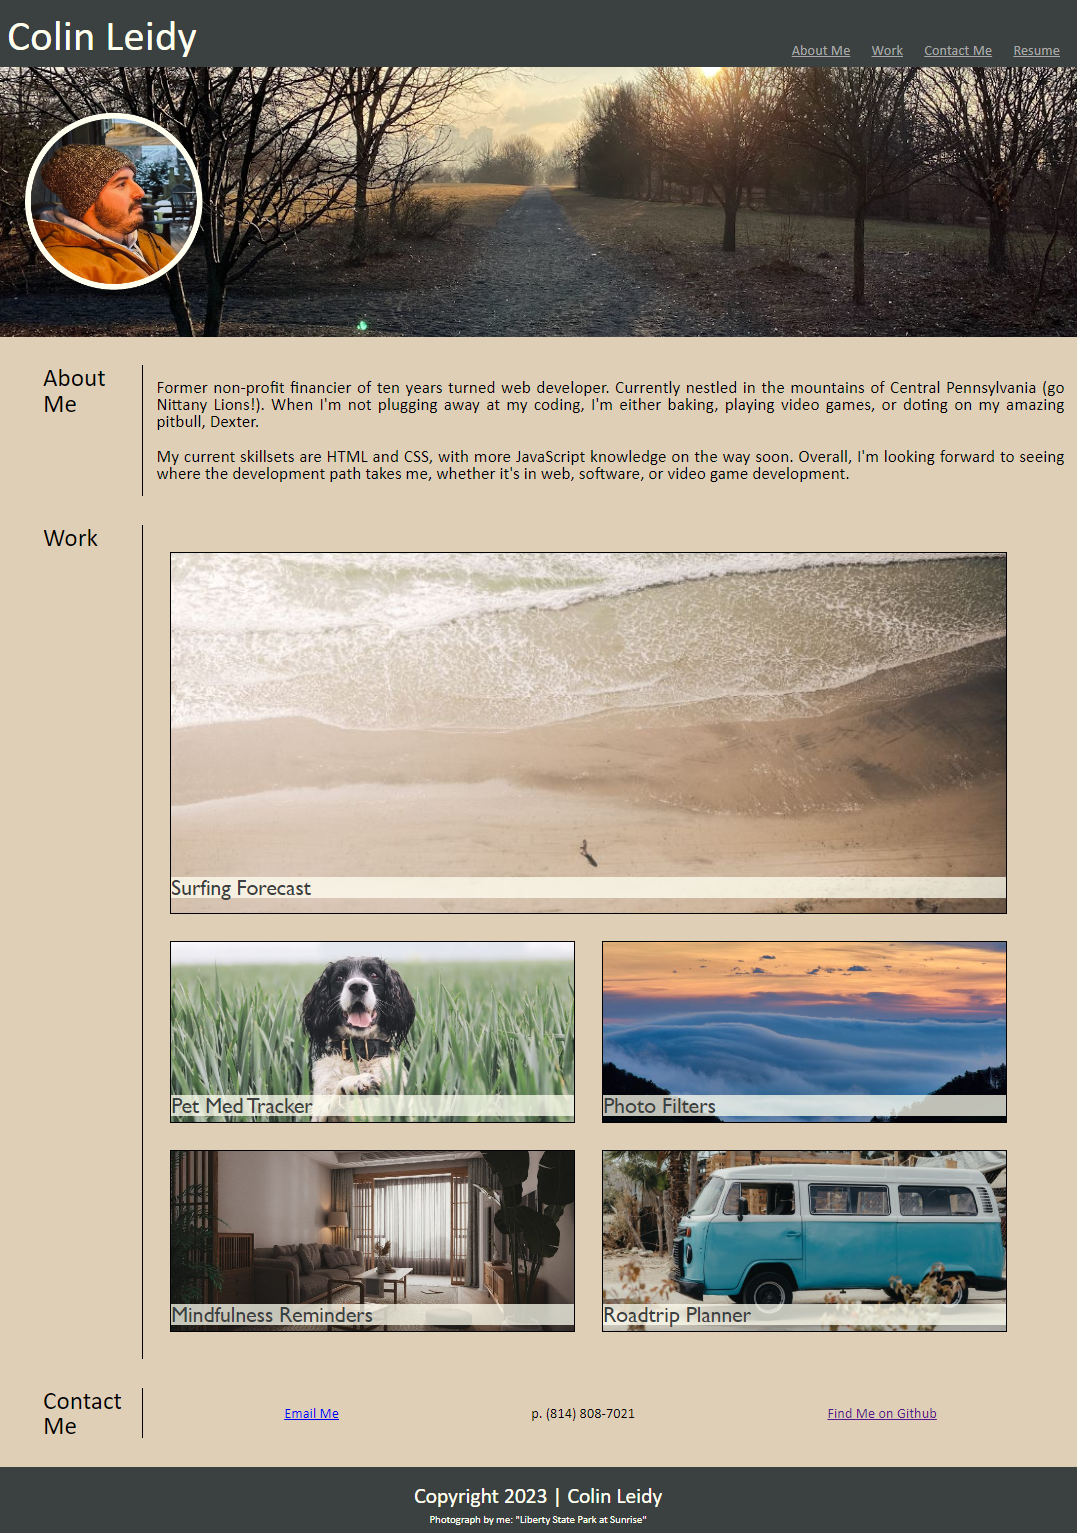
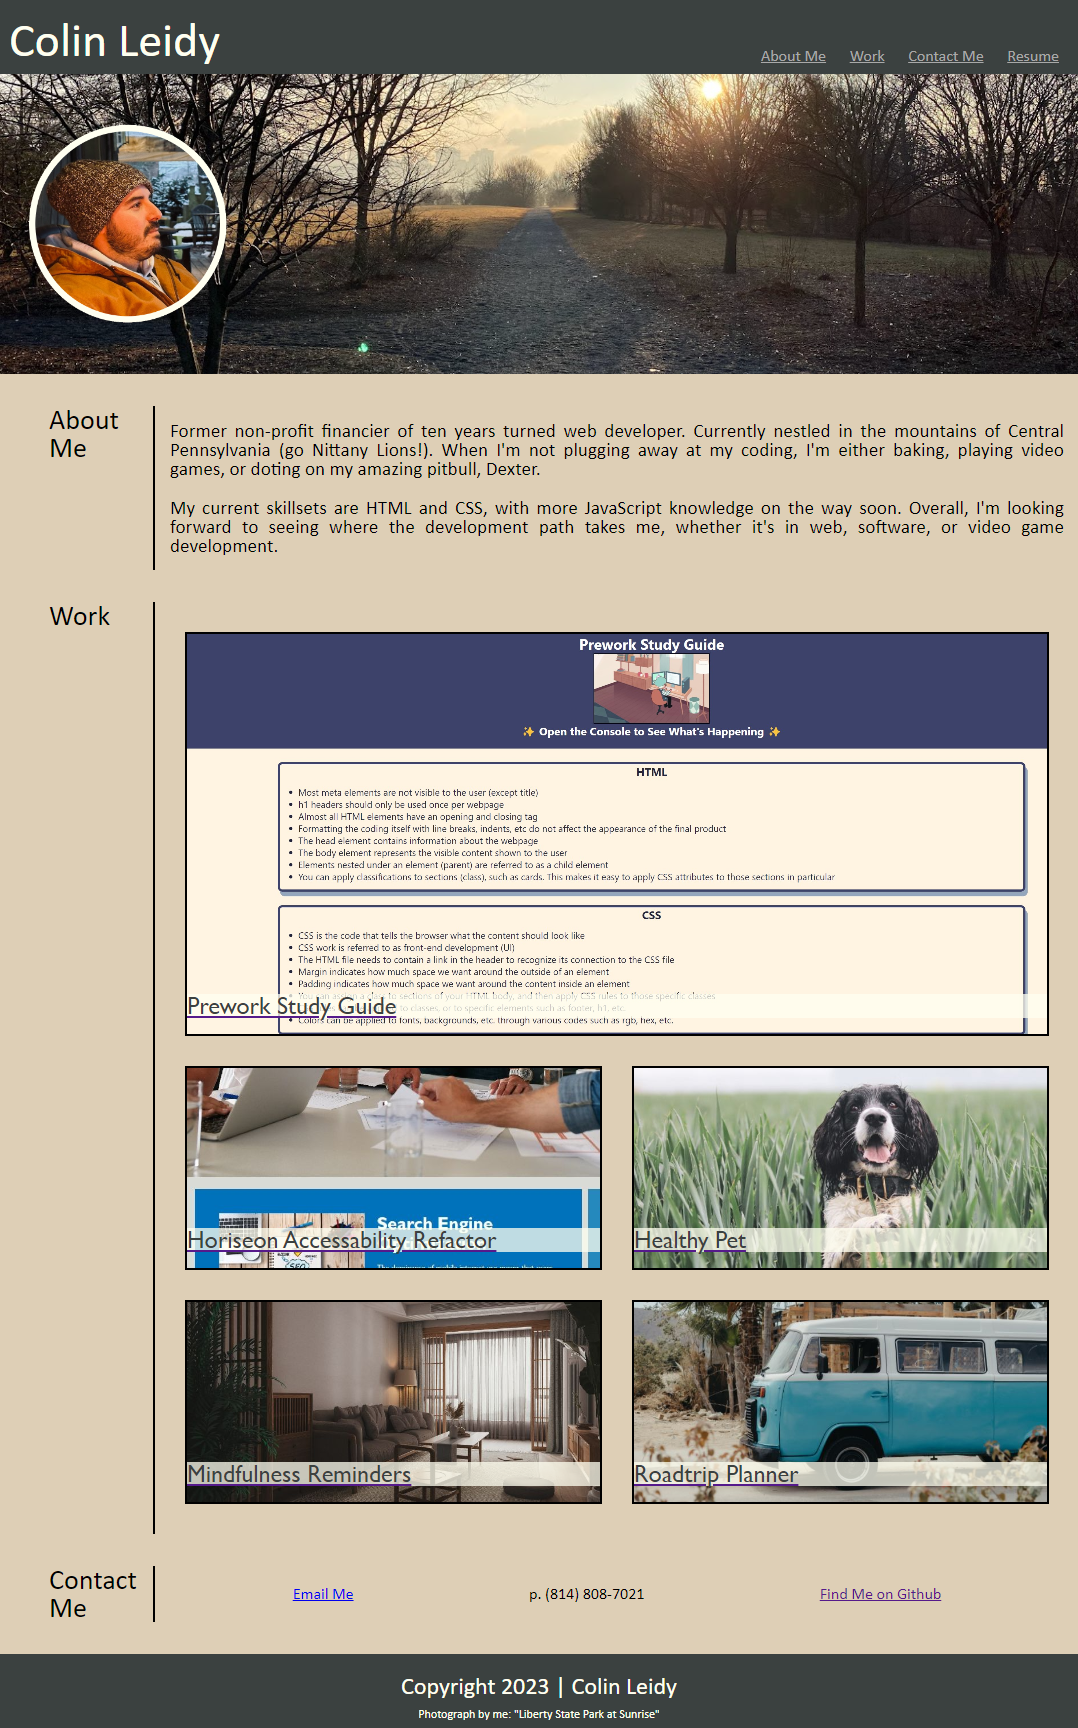
finalized links and thumbnail images

diff --git a/assets/style.css b/assets/style.css
@@ -92,9 +92,8 @@ main {
     align-content: space-around;
 }
 
-figure {
-    background-size: auto;
-    background-position: left;
+article a {
+    background-size: cover;
     border: 2px solid black;
 }
 
@@ -102,7 +101,7 @@ figure {
     flex: 1 1 80%;
     background-image: url(./images/project-1.jpg);
     height: 400px;
-    margin: 15px
+    margin: 15px;
 }
 
 #small-project-2 {
@@ -134,7 +133,7 @@ figure {
 }
 
 
-figure:hover {
+article a:hover {
     filter: saturate(.4);
     cursor: pointer;
     border: 2px solid lightgray;
@@ -163,7 +162,7 @@ figure:hover {
     flex-wrap: wrap;
 }
 
-#contact-me article {
+#contact-me nav {
     flex: 1 1 0;
     padding: 15px;
     text-align: justify;

diff --git a/index.html b/index.html
@@ -80,11 +80,11 @@
 
         <section id="contact-me">
             <h2>Contact Me</h2>
-            <article>
+            <nav>
                 <a href="mailto:clh5160@gmail.com">Email Me</a>
                 <p>p. (814) 808-7021</p>
                 <a href="https://github.com/CollyLee">Find Me on Github</a>
-            </article>
+            </nav>
         </section>
 
         <br><br>
